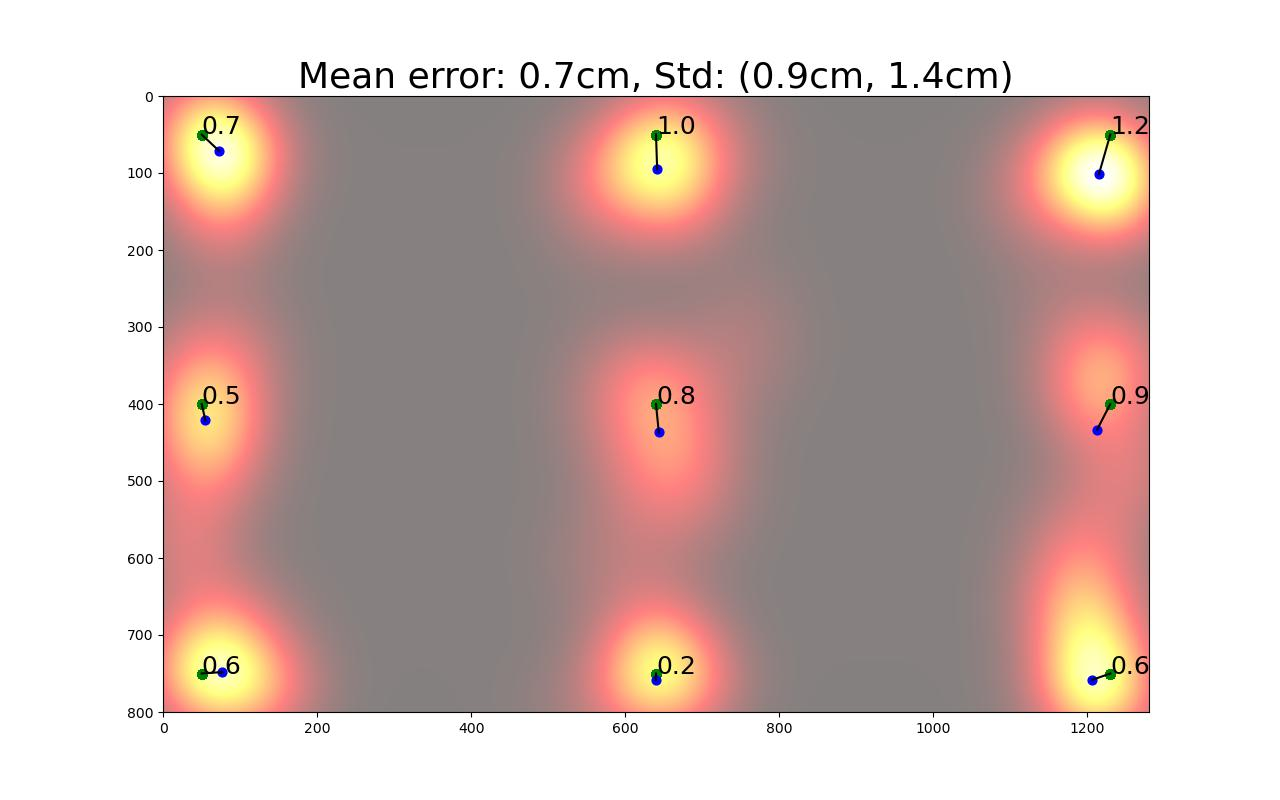
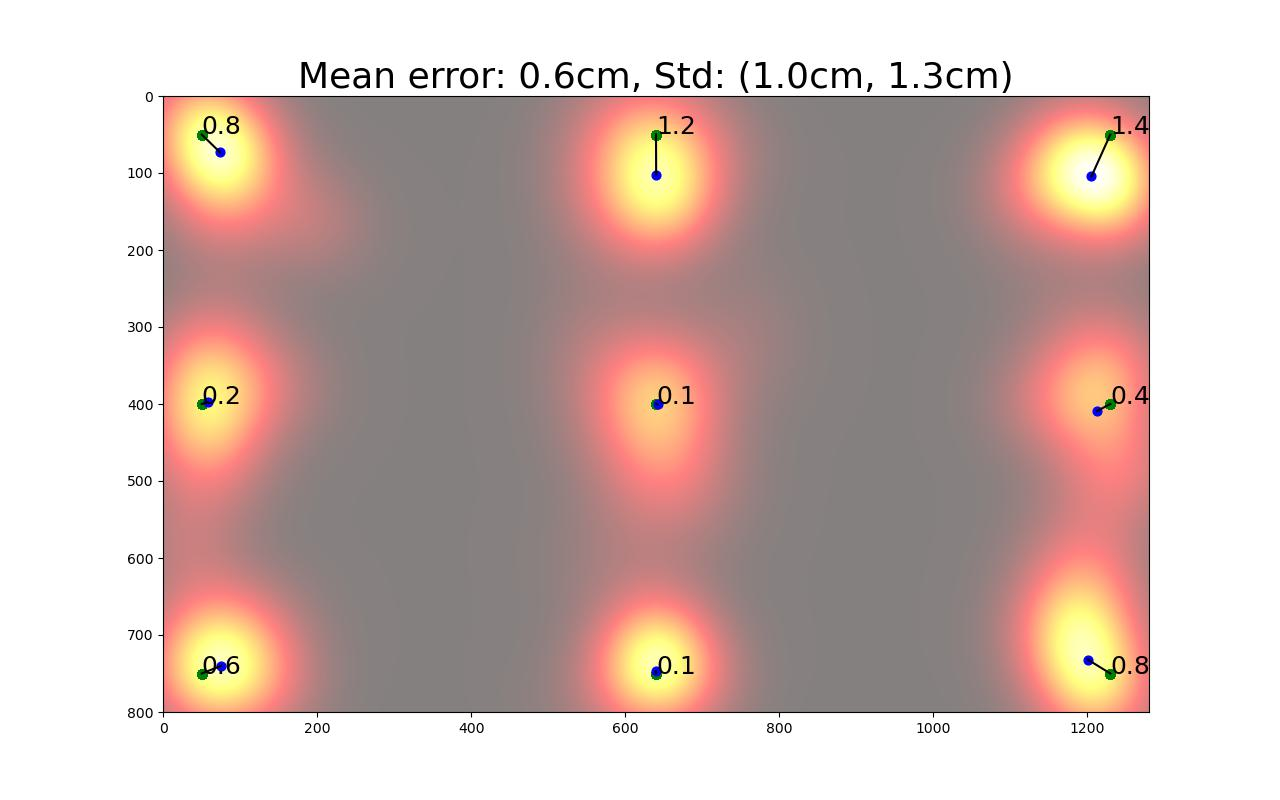
added new participants

diff --git a/dataAnalyzeDeepEye.py b/dataAnalyzeDeepEye.py
@@ -81,8 +81,8 @@ def dot_error(y_true, y_pred):
     return float(mean_dot_error), df, float(std_dot_error)
 
 
-# path_to_folders = 'C:/Users/artem/Dropbox/Appliedwork/CognitiveSolutions/Projects/DeepEye/TechnicalReports/TechnicalReport1'
-path_to_folders = 'D:/Dropbox/Appliedwork/CognitiveSolutions/Projects/DeepEye/TechnicalReports/TechnicalReport1'
+path_to_folders = 'C:/Users/artem/Dropbox/Appliedwork/CognitiveSolutions/Projects/DeepEye/TechnicalReports/TechnicalReport1'
+# path_to_folders = 'D:/Dropbox/Appliedwork/CognitiveSolutions/Projects/DeepEye/TechnicalReports/TechnicalReport1'
 
 folder_names = os.listdir(path_to_folders)
 
@@ -134,8 +134,9 @@ dist = np_euclidean_distance(y_true, y_pred)
 #     plt.gca().invert_yaxis()
     
     
-d = c[c.num_calibration_dots == 9]
+d = c[c.num_calibration_dots == 13]
 d = d[d.subj_nr != '2023_03_13_13_27_40']
+d = d[d.subj_nr != '2023_03_27_11_43_30']
 
 # for name, i in d.groupby(['subj_nr','unique_dot']):
 #     median_pred_x = i.pred_x.median()
@@ -214,7 +215,7 @@ for x,y,e in zip(np.array(true_x), np.array(true_y), np.round(dist_cm, 1)):
 
 
 # Save plot
-plt.savefig('calibration9.jpg', dpi=100, pad_inches=0)
+plt.savefig('calibration13.jpg', dpi=100, pad_inches=0)
 
 
 
